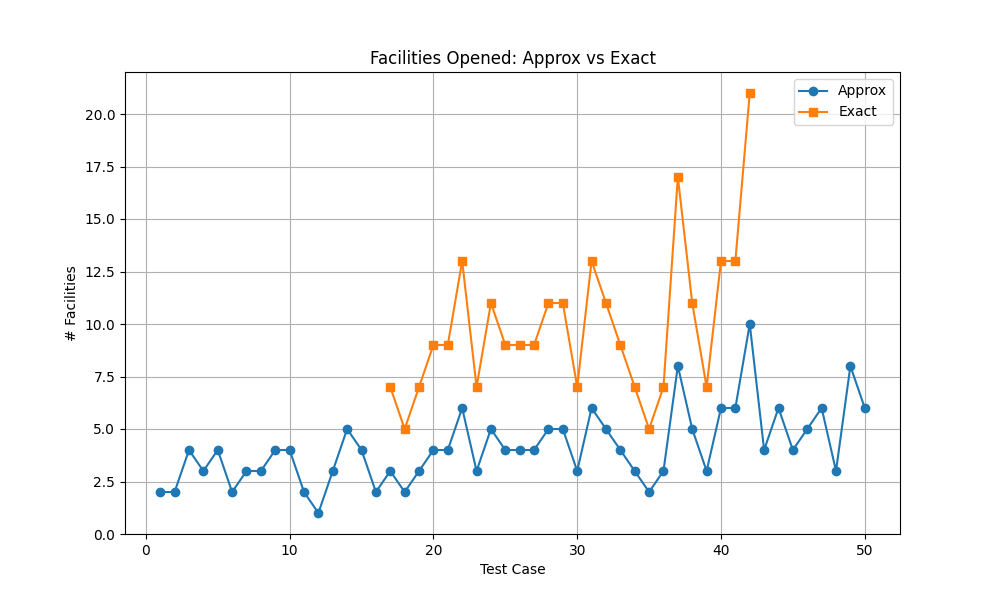
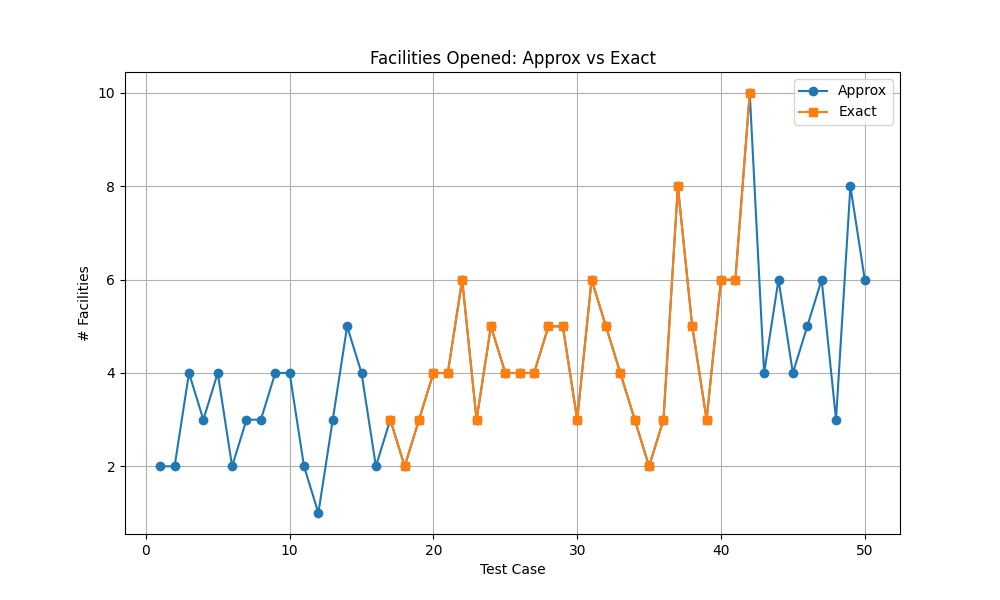
one line changed in make_plots

diff --git a/blake_approx_solution/make_plots.py b/blake_approx_solution/make_plots.py
@@ -127,7 +127,7 @@ def parse_output(path):
         if s.startswith("Facilities chosen"):
             mode = "chosen"
             continue
-        if s.startswith("Coverage mapping"):
+        if s.startswith("Unique Client Assignment"):
             mode = "covmap"
             continue
 
